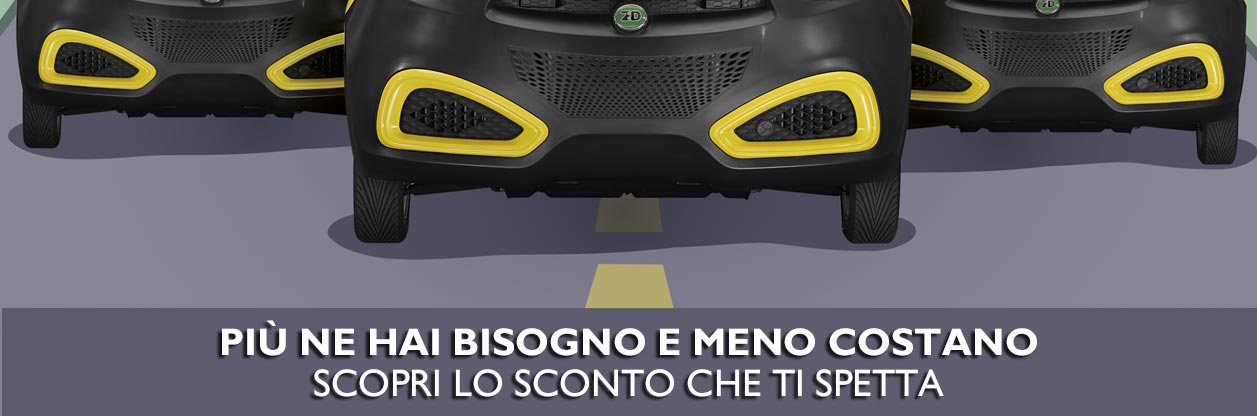
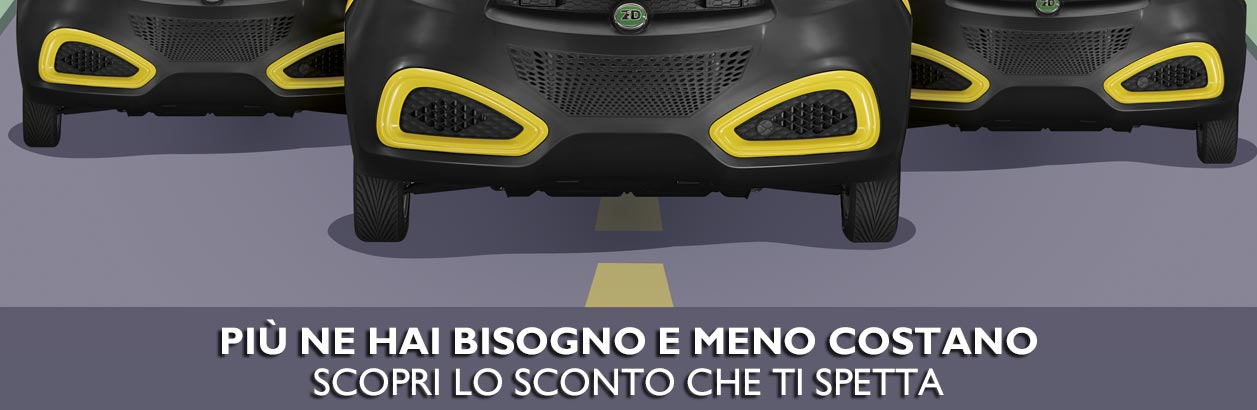
1350 Updated landing page "roma". Merge with branch master.

diff --git a/module/Application/public/roma/application/css/style.css b/module/Application/public/roma/application/css/style.css
@@ -1,1 +1,1 @@
-@font-face { font-family: 'Lato-Bold'; src: url('../font/Lato-Bold.eot'); src: url('../font/Lato-Bold.eot?#iefix') format('embedded-opentype'), url('../font/Lato-Bold.woff') format('woff'), url('../font/Lato-Bold.ttf') format('truetype'); font-weight: bold; font-style: normal; } @font-face { font-family: 'Lato-Regular'; src: url('../font/Lato-Regular.eot'); src: url('../font/Lato-Regular.eot?#iefix') format('embedded-opentype'), url('../font/Lato-Regular.woff') format('woff'), url('../font/Lato-Regular.ttf') format('truetype'); font-weight: bold; font-style: normal; } @font-face { font-family: 'Lato-Light'; src: url('../font/Lato-Light.eot'); src: url('../font/Lato-Light.eot?#iefix') format('embedded-opentype'), url('../font/Lato-Light.woff') format('woff'), url('../font/Lato-Light.ttf') format('truetype'); font-weight: bold; font-style: normal; } @font-face { font-family: 'Lato-Heavy'; src: url('../font/Lato-Heavy.eot'); src: url('../font/Lato-Heavy.eot?#iefix') format('embedded-opentype'), url('../font/Lato-Heavy.woff') format('woff'), url('../font/Lato-Heavy.ttf') format('truetype'); font-weight: bold; font-style: normal; } html, body { font-size: 100%; } .lato-regular { font-family: 'Lato-Regular'; } .lato-regularbt { font-family: 'Lato-Regular'; }  .lato-bold { font-family: 'Lato-Heavy'; } .lato-boldbt { font-family: 'Lato-Heavy'; } .black { color: #000; } .black a { color: #000; } .black a:hover, .black a:active, .black a:focus { color: #000; } .red, .red a { color: #eb2523; } .white { color: #ffffff; } .yellow { color: #ffed00; } .yellow a { color: #ffed00; } .yellow a:hover, .yellow a:active, .yellow a:focus { color: #ffed00; } .blu, .blu a { color: #1c3462; } .blu a:hover, .blu a:active, .blu a:focus { color: #1c3462; } .bg-grey { background-color: #215968; } div.col-sm-12.bg-grey, div.col-sm-12 .col-sm-7 { padding-left: 0; } button { color: #3f3e3e; background-color: #ffed00; border: 5px solid #fff; padding: 12px 25px 10px; -webkit-border-radius: 20px; -moz-border-radius: 20px; border-radius: 20px; font-size: 30px; } button a { color: #000; } a#submit:hover { color: #fff; } .desk-block { display: block; } .container-fluid { padding-left: 0; padding-right: 0; } #intro { font-size: 24px; position: relative; top: -20px; } #tit { position: relative; top: -20px; font-family: 'Lato-Regular'; font-size: 30px; } #logo { width: 400px; height: 100px; background-image: url('../img/logo-lifegate.png'); margin: 0; padding: 0; margin-left: auto; margin-right: auto; position: relative; top: -20px; } #first-paragraph { position: relative; top: 0px; } #paragraph1 { position: relative; top: 0px; } #second-paragraph { position: relative; top: -100px; } #nota { font-size: 20px; } #registrati { position: relative; top: 0px; } #submit { position: relative; top: 40px; } @media screen and (min-width:768px) and (max-width: 1900px){.desk-block.desk-inline{display: inline;}} @media screen and (max-width:767px){div.col-sm-12.bg-grey,div.col-sm-12.col-sm-7{padding-right: 0px; } .col-sm-5.col-sm-push-7 { padding-top: 4%; padding-right: 15px; padding-left: 15px; } .col-sm-5.text-center.p-top-5 { padding-bottom: 4%; padding-right: 15px; padding-left: 15px;} a.yellow { font-size: 1.3rem; } .strong { font-size: 1.0rem; line-height: 1.4rem; }.strongyellow { font-size: 2.6rem; line-height: 3.2rem; color: #ffed00;} .strongyellowTitolo { font-size: 2.6rem; line-height: 3.2rem; color: #ffed00;} .strong-big { font-size: 1.4rem; line-height: 1; } .semistrong { font-size: 1rem; } .smaller { font-size: 0.9rem; } .p-top-5 { padding-top: 5%; } #intro { font-size: 16px; position: relative; top: 0px; } #tit { position: relative; top: 0px; } #logo { width: 200px; height: 50px; background-image: url('../img/logo-lifegate-768.png'); top: -5px; } #paragraph1a { position: relative; top: 0; } #first-paragraph { position: relative; top: 0px; margin-bottom: 40px;  } #second-paragraph { position: relative; top: 0px; margin-bottom: 40px;  } #submit { position: relative; top: 20px; margin-bottom: 20px; } } @media screen and (min-width: 768px) { .col-sm-5.col-sm-push-7 { padding-top: 3%; } a.yellow { font-size: 1.3rem; } .strong { font-size: 1.0rem; line-height: 1.5rem; } .strongyellow { font-size: 1.8rem; line-height: 2.2rem;} .strongyellowTitolo { font-size: 1.8rem; line-height: 2.2rem;} .strong-big { font-size: 1.4rem; line-height: 1; } .smaller, .semistrong { font-size: 0.85rem; } .semistrong2 { font-size: 1rem; } #intro { font-size: 14px; position: relative; top: -15px; } #tit { position: relative; top: 0px; font-size: 20px; } #logo { top: -4px; } #logo { width: 200px; height: 50px; background-image: url('../img/logo-lifegate-768.png'); top: -4px; } #first-paragraph { position: relative; top: -10px;} #paragraph1 { position: relative; top: 5px;} #paragraph1a { position: relative; top: 0px; } #registrati { position: relative; top: -30px; font-size: 20px; } #second-paragraph { position: relative; top: -60px; } #paragraph2 { position: relative; top: -5px; } #paragraph3 { position: relative; top: 10px; } #paragraph3 { position: relative; top: -10px; } #paragraph4 { position: relative; top: -45px; } #nota { font-size: 14px; } #submit { position: relative; top: 15px; } #button { top: -15px; }} @media screen and (min-width: 960px) { .strong { font-size: 1.4rem; line-height: 1.8rem; }} @media screen and (min-width: 1024px) { /*span{ display:block; }*/ a.yellow { font-size: 1.7rem; } .strong { font-size: 1.4rem; line-height: 1.8rem; } .strongyellow { font-size: 2.2rem; line-height: 2.6rem;} .strongyellowTitolo { font-size: 2.2rem; line-height: 2.6rem;} .strong-big { font-size: 2.4rem; line-height: 1; } .semistrong { font-size: 1.3rem; line-height: 1.8rem; } .semistrong2 { font-size: 1.5rem; } #intro { font-size: 16px; position: relative; top: -10px; } #tit { position: relative; top: -10px; font-size: 28px; } #logo { width: 250px; height: 63px; background-image: url('../img/logo-lifegate-1024.png'); top: -15px; } #paragraph1 { position: relative; top: 0px; } #paragraph1a { position: relative; top: 0px; } #second-paragraph { position: relative; top: -85px; } #paragraph2 { position: relative; top: -5px; } #registrati { position: relative; top: 0px; font-size: 28px; } #nota { font-size: 16px; } #submit { position: relative; top: 20px; } #paragraph4 { position: relative; top: -10px; } } @media screen and (min-width: 768px) { .img-mobile { display: none; } } @media screen and (max-width: 767px) { .strong { font-size: 2.0rem; line-height: 2.4rem; } .img-desk { display: none; } } @media screen and (min-width:1200px) { a.yellow { font-size: 1.9rem; } .strong { font-size: 2.0rem; line-height: 2.6rem; } .strong-big { font-size: 2.0rem; line-height: 1; } .semistrong { font-size: 1.3rem; line-height: 2.1rem; } .semistrong2 { font-size: 1.7rem; line-height: 2.3rem; } .smaller { font-size: 1rem; } #logo { width: 300px; height: 100px; background-image: url('../img/logo-lifegate-1200.png'); background-repeat: no-repeat; position: relative; top: -3px; } #intro { font-size: 28px; position: relative; } #paragraph1 { position: relative; top: 0px; } #paragraph4 { position: relative; top: -40px; } #paragraph1a { position: relative; top: 18px; } #second-paragraph { position: relative; top: -100px; } #intro { font-size: 32px; position: relative; } #registrati { position: relative; font-size: 36px; top: -25px; } #submit { position: relative; top: 29px; } } @media screen and (min-width:1400px) { a.yellow { font-size: 2.1rem; } .strong { font-size: 2.1rem; line-height: 2.5rem; } .strong-big { font-size: 3.6rem; line-height: 1; } .semistrong { font-size: 1.3rem; line-height: 2.3rem; } .semistrong2 { font-size: 1.9rem; } .smaller { font-size: 1.2rem; } #logo { width: 400px; height: 100px; background-image: url('../img/logo-lifegate.png'); position: relative; top: 3px; } #tit { font-size: 32px; } #paragraph1a { position: relative; top: 30px; } #second-paragraph { position: relative; top: -90px; } #paragraph2 { position: relative; top: 33px; }  #paragraph4 { position: relative; top: 0px; } #registrati { position: relative; font-size: 40px; top: 5px; } } @media screen and (min-width:1600px) { a.yellow { font-size: 3rem; } .strong { font-size: 2.8rem; line-height: 3.2rem; } .strongyellow { font-size: 3.0rem; line-height: 3.4rem; padding-top:0px; color: #ffed00;} .strongyellowTitolo { font-size: 3.0rem; line-height: 3.4rem; padding-top:0px; color: #ffed00;} .semistrong { font-size: 2.3rem; } .smaller { font-size: 2.1rem; } #tit { font-size: 36px; }  #paragraph1a { position: relative; top: 40px; }#paragraph2 { position: relative; top: 0px; } #paragraph3 { position: relative; top: 20px; } #paragraph4 { position: relative; top: 20px; } #registrati { position: relative; top: 10px; font-size: 45px; } #second-paragraph { position: relative; top: -170px; } } @media screen and (min-width:1920px) { a.yellow { font-size: 3rem; } .strong { font-size: 3.4rem; line-height: 3.9rem; } .strongyellow { font-size: 3.6rem; line-height: 2.6rem; padding-top:30px; color: #ffed00;} .strongyellowTitolo { font-size: 3.6rem; line-height: 2.6rem; padding-top:30px; color: #ffed00;} .semistrong { font-size: 2.3rem; } .smaller { font-size: 2.1rem; } #tit { font-size: 36px; }  #paragraph1a { position: relative; top: 40px; }#paragraph2 { position: relative; top: 30px; } #paragraph3 { position: relative; top: 20px; } #paragraph4 { position: relative; top: 20px; } #registrati { position: relative; top: 40px; font-size: 45px; } #second-paragraph { position: relative; top: -170px; } }
+@font-face { font-family: 'Lato-Bold'; src: url('../font/Lato-Bold.eot'); src: url('../font/Lato-Bold.eot?#iefix') format('embedded-opentype'), url('../font/Lato-Bold.woff') format('woff'), url('../font/Lato-Bold.ttf') format('truetype'); font-weight: bold; font-style: normal; } @font-face { font-family: 'Lato-Regular'; src: url('../font/Lato-Regular.eot'); src: url('../font/Lato-Regular.eot?#iefix') format('embedded-opentype'), url('../font/Lato-Regular.woff') format('woff'), url('../font/Lato-Regular.ttf') format('truetype'); font-weight: bold; font-style: normal; } @font-face { font-family: 'Lato-Light'; src: url('../font/Lato-Light.eot'); src: url('../font/Lato-Light.eot?#iefix') format('embedded-opentype'), url('../font/Lato-Light.woff') format('woff'), url('../font/Lato-Light.ttf') format('truetype'); font-weight: bold; font-style: normal; } @font-face { font-family: 'Lato-Heavy'; src: url('../font/Lato-Heavy.eot'); src: url('../font/Lato-Heavy.eot?#iefix') format('embedded-opentype'), url('../font/Lato-Heavy.woff') format('woff'), url('../font/Lato-Heavy.ttf') format('truetype'); font-weight: bold; font-style: normal; } html, body { font-size: 100%; } .lato-regular { font-family: 'Lato-Regular'; } .lato-regularbt { font-family: 'Lato-Regular'; }  .lato-bold { font-family: 'Lato-Heavy'; } .lato-boldbt { font-family: 'Lato-Heavy'; } .black { color: #000; } .black a { color: #000; } .black a:hover, .black a:active, .black a:focus { color: #000; } .red, .red a { color: #eb2523; } .white { color: #ffffff; } .yellow { color: #ffed00; } .yellow a { color: #ffed00; } .yellow a:hover, .yellow a:active, .yellow a:focus { color: #ffed00; } .blu, .blu a { color: #1c3462; } .blu a:hover, .blu a:active, .blu a:focus { color: #1c3462; } .bg-grey { background-color: #215968; } div.col-sm-12.bg-grey, div.col-sm-12 .col-sm-7 { padding-left: 0; } button { color: #3f3e3e; background-color: #ffed00; border: 5px solid #fff; padding: 12px 25px 10px; -webkit-border-radius: 20px; -moz-border-radius: 20px; border-radius: 20px; font-size: 30px; } button a { color: #000; } a#submit:hover { color: #fff; } .desk-block { display: block; } .container-fluid { padding-left: 0; padding-right: 0; } #intro { font-size: 24px; position: relative; top: -20px; } #tit { position: relative; top: -20px; font-family: 'Lato-Regular'; font-size: 30px; } #logo { width: 400px; height: 100px; background-image: url('../img/logo-lifegate.png'); margin: 0; padding: 0; margin-left: auto; margin-right: auto; position: relative; top: -20px; } #first-paragraph { position: relative; top: 0px; } #paragraph1 { position: relative; top: 0px; } #second-paragraph { position: relative; top: -100px; } #nota { font-size: 20px; } #registrati { position: relative; top: 0px; } #submit { position: relative; top: 40px; } @media screen and (min-width:768px) and (max-width: 1900px){.desk-block.desk-inline{display: inline;}} @media screen and (max-width:767px){div.col-sm-12.bg-grey,div.col-sm-12.col-sm-7{padding-right: 0px; } .col-sm-5.col-sm-push-7 { padding-top: 4%; } .col-sm-5.text-center.p-top-5 { padding-bottom: 4%; } a.yellow { font-size: 1.3rem; } .strong { font-size: 1.0rem; line-height: 1.4rem; }.strongyellow { font-size: 2.6rem; line-height: 3.2rem; color: #ffed00;} .strongyellowTitolo { font-size: 2.6rem; line-height: 3.2rem; color: #ffed00;} .strong-big { font-size: 1.4rem; line-height: 1; } .semistrong { font-size: 1rem; } .smaller { font-size: 0.9rem; } .p-top-5 { padding-top: 5%; } #intro { font-size: 16px; position: relative; top: 0px; } #tit { position: relative; top: 0px; } #logo { width: 200px; height: 50px; background-image: url('../img/logo-lifegate-768.png'); top: -5px; } #paragraph1a { position: relative; top: 0; } #first-paragraph { position: relative; top: 10px; margin-bottom: 40px; padding-right: 20px; padding-left: 20px; } #second-paragraph { position: relative; top: 0px; margin-bottom: 40px; padding-right: 80px; padding-left: 80px; } #submit { position: relative; top: 20px; margin-bottom: 20px; } } @media screen and (min-width: 768px) { .col-sm-5.col-sm-push-7 { padding-top: 3%; } a.yellow { font-size: 1.3rem; } .strong { font-size: 1.0rem; line-height: 1.5rem; } .strongyellow { font-size: 1.8rem; line-height: 2.2rem; padding-top:10px;} .strongyellowTitolo { font-size: 1.8rem; line-height: 2.2rem;} .strong-big { font-size: 1.4rem; line-height: 1; } .smaller, .semistrong { font-size: 0.85rem; } .semistrong2 { font-size: 1rem; } #intro { font-size: 14px; position: relative; top: -15px; } #tit { position: relative; top: 0px; font-size: 20px; } #logo { top: -4px; } #logo { width: 200px; height: 50px; background-image: url('../img/logo-lifegate-768.png'); top: -4px; } #first-paragraph { position: relative; top: 10px;} #paragraph1 { position: relative; top: 5px;} #paragraph1a { position: relative; top: 0px; } #registrati { position: relative; top: -30px; font-size: 20px; } #second-paragraph { position: relative; top: -60px; } #paragraph2 { position: relative; top: -5px; } #paragraph3 { position: relative; top: 10px; } #paragraph3 { position: relative; top: -10px; } #paragraph4 { position: relative; top: -35px; } #nota { font-size: 14px; } #submit { position: relative; top: 15px; } #button { top: -15px; } .img-mobile { display: none; }} @media screen and (min-width: 960px) { .strong { font-size: 1.4rem; line-height: 1.8rem; }} @media screen and (min-width: 1024px) { /*span{ display:block; }*/ a.yellow { font-size: 1.7rem; } .strong { font-size: 1.5rem; line-height: 2rem; } .strongyellow { font-size: 2.2rem; line-height: 2.6rem;} .strongyellowTitolo { font-size: 2.2rem; line-height: 2.6rem;} .strong-big { font-size: 2.4rem; line-height: 1; } .semistrong { font-size: 1.3rem; line-height: 1.8rem; } .semistrong2 { font-size: 1.5rem; } #intro { font-size: 16px; position: relative; top: -10px; } #tit { position: relative; top: -10px; font-size: 28px; } #logo { width: 250px; height: 63px; background-image: url('../img/logo-lifegate-1024.png'); top: -15px; } #paragraph1 { position: relative; top: 0px; } #paragraph1a { position: relative; top: 0px; } #second-paragraph { position: relative; top: -85px; } #paragraph2 { position: relative; top: -5px; } #registrati { position: relative; top: 0px; font-size: 28px; } #nota { font-size: 16px; } #submit { position: relative; top: 20px; } #paragraph4 { position: relative; top: -10px; } } @media screen and (max-width: 767px) { .strong { font-size: 1.8rem; line-height: 2.2rem; } .img-desk { display: none; } } @media screen and (min-width:1200px) { a.yellow { font-size: 1.9rem; } .strong { font-size: 2.0rem; line-height: 2.6rem; } .strong-big { font-size: 2.0rem; line-height: 1; } .semistrong { font-size: 1.3rem; line-height: 2.1rem; } .semistrong2 { font-size: 1.7rem; line-height: 2.3rem; } .smaller { font-size: 1rem; } #logo { width: 300px; height: 100px; background-image: url('../img/logo-lifegate-1200.png'); background-repeat: no-repeat; position: relative; top: -3px; } #intro { font-size: 28px; position: relative; } #paragraph1 { position: relative; top: 0px; } #paragraph4 { position: relative; top: -40px; } #paragraph1a { position: relative; top: 18px; } #second-paragraph { position: relative; top: -100px; } #intro { font-size: 32px; position: relative; } #registrati { position: relative; font-size: 36px; top: -25px; } #submit { position: relative; top: 29px; } } @media screen and (min-width:1400px) { a.yellow { font-size: 2.1rem; } .strong { font-size: 2.4rem; line-height: 3rem; } .strong-big { font-size: 3.6rem; line-height: 1; } .semistrong { font-size: 1.3rem; line-height: 2.3rem; } .semistrong2 { font-size: 1.9rem; } .smaller { font-size: 1.2rem; } #logo { width: 400px; height: 100px; background-image: url('../img/logo-lifegate.png'); position: relative; top: 3px; } #tit { font-size: 32px; } .strongyellowTitolo { font-size: 2.4rem; line-height: 2.6rem;} .strongyellow { font-size: 2.4rem; line-height: 2.6rem;} #paragraph1a { position: relative; top: 30px; } #second-paragraph { position: relative; top: -90px; } #paragraph2 { position: relative; top: 0px; }  #paragraph4 { position: relative; top: -45px; } #registrati { position: relative; font-size: 40px; top: 5px; } } @media screen and (min-width:1600px) { a.yellow { font-size: 3rem; } .strong { font-size: 2.6rem; line-height: 3.2rem; } .strongyellow { font-size: 3.0rem; line-height: 3.4rem; padding-top:0px; color: #ffed00;} .strongyellowTitolo { font-size: 3.0rem; line-height: 3.4rem; padding-top:0px; color: #ffed00;} .semistrong { font-size: 2.3rem; } .smaller { font-size: 2.1rem; } #tit { font-size: 36px; }  #paragraph1a { position: relative; top: 40px; }#paragraph2 { position: relative; top: 0px; } #paragraph3 { position: relative; top: 20px; } #paragraph4 { position: relative; top: 20px; } #registrati { position: relative; top: 10px; font-size: 45px; } #second-paragraph { position: relative; top: -140px; } } @media screen and (min-width:1920px) { a.yellow { font-size: 3rem; } .strong { font-size: 3.2rem; line-height: 3.9rem; } .strongyellow { font-size: 3.6rem; line-height: 2.6rem; padding-top:30px; color: #ffed00;} .strongyellowTitolo { font-size: 3.6rem; line-height: 2.6rem; padding-top:30px; color: #ffed00;} .semistrong { font-size: 2.3rem; } .smaller { font-size: 2.1rem; } #tit { font-size: 36px; }  #paragraph1a { position: relative; top: 40px; }#paragraph2 { position: relative; top: 30px; } #paragraph3 { position: relative; top: 20px; } #paragraph4 { position: relative; top: 20px; } #registrati { position: relative; top: 40px; font-size: 45px; } #second-paragraph { position: relative; top: -170px; } }
